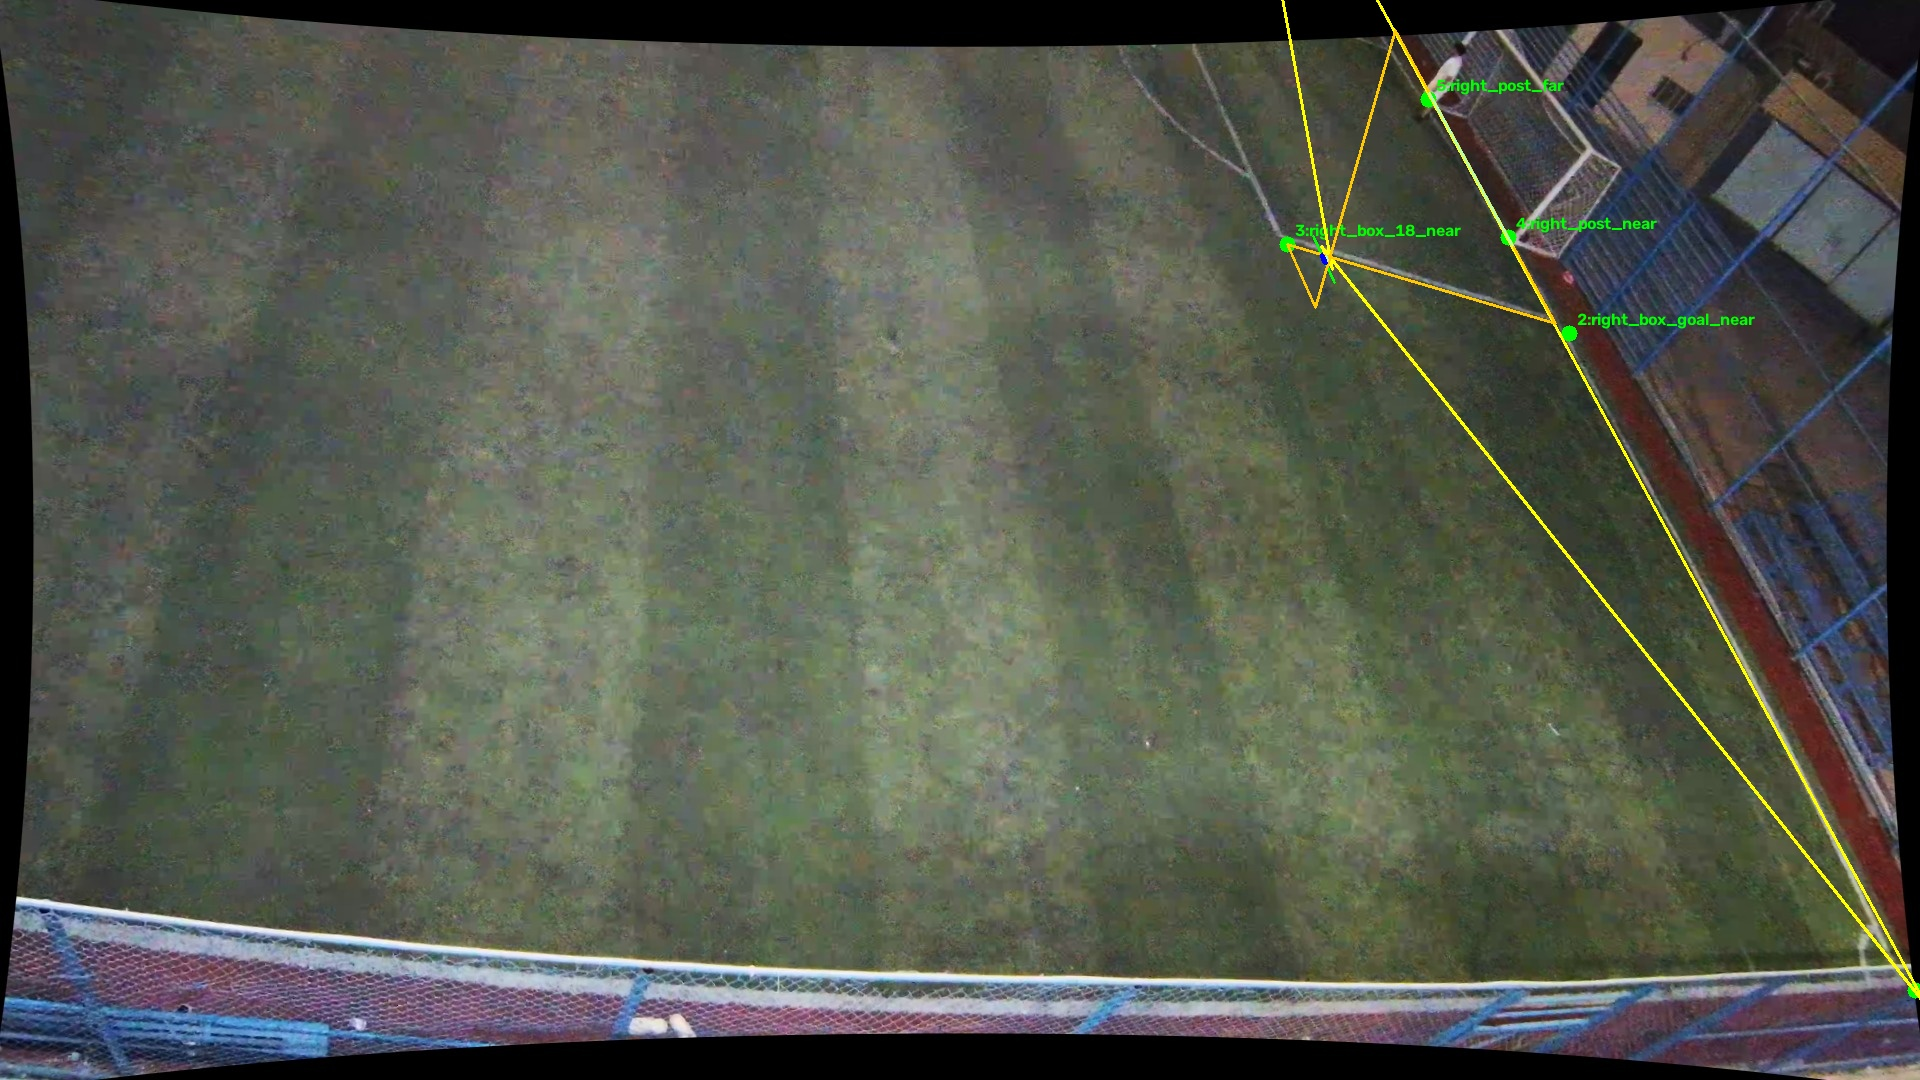
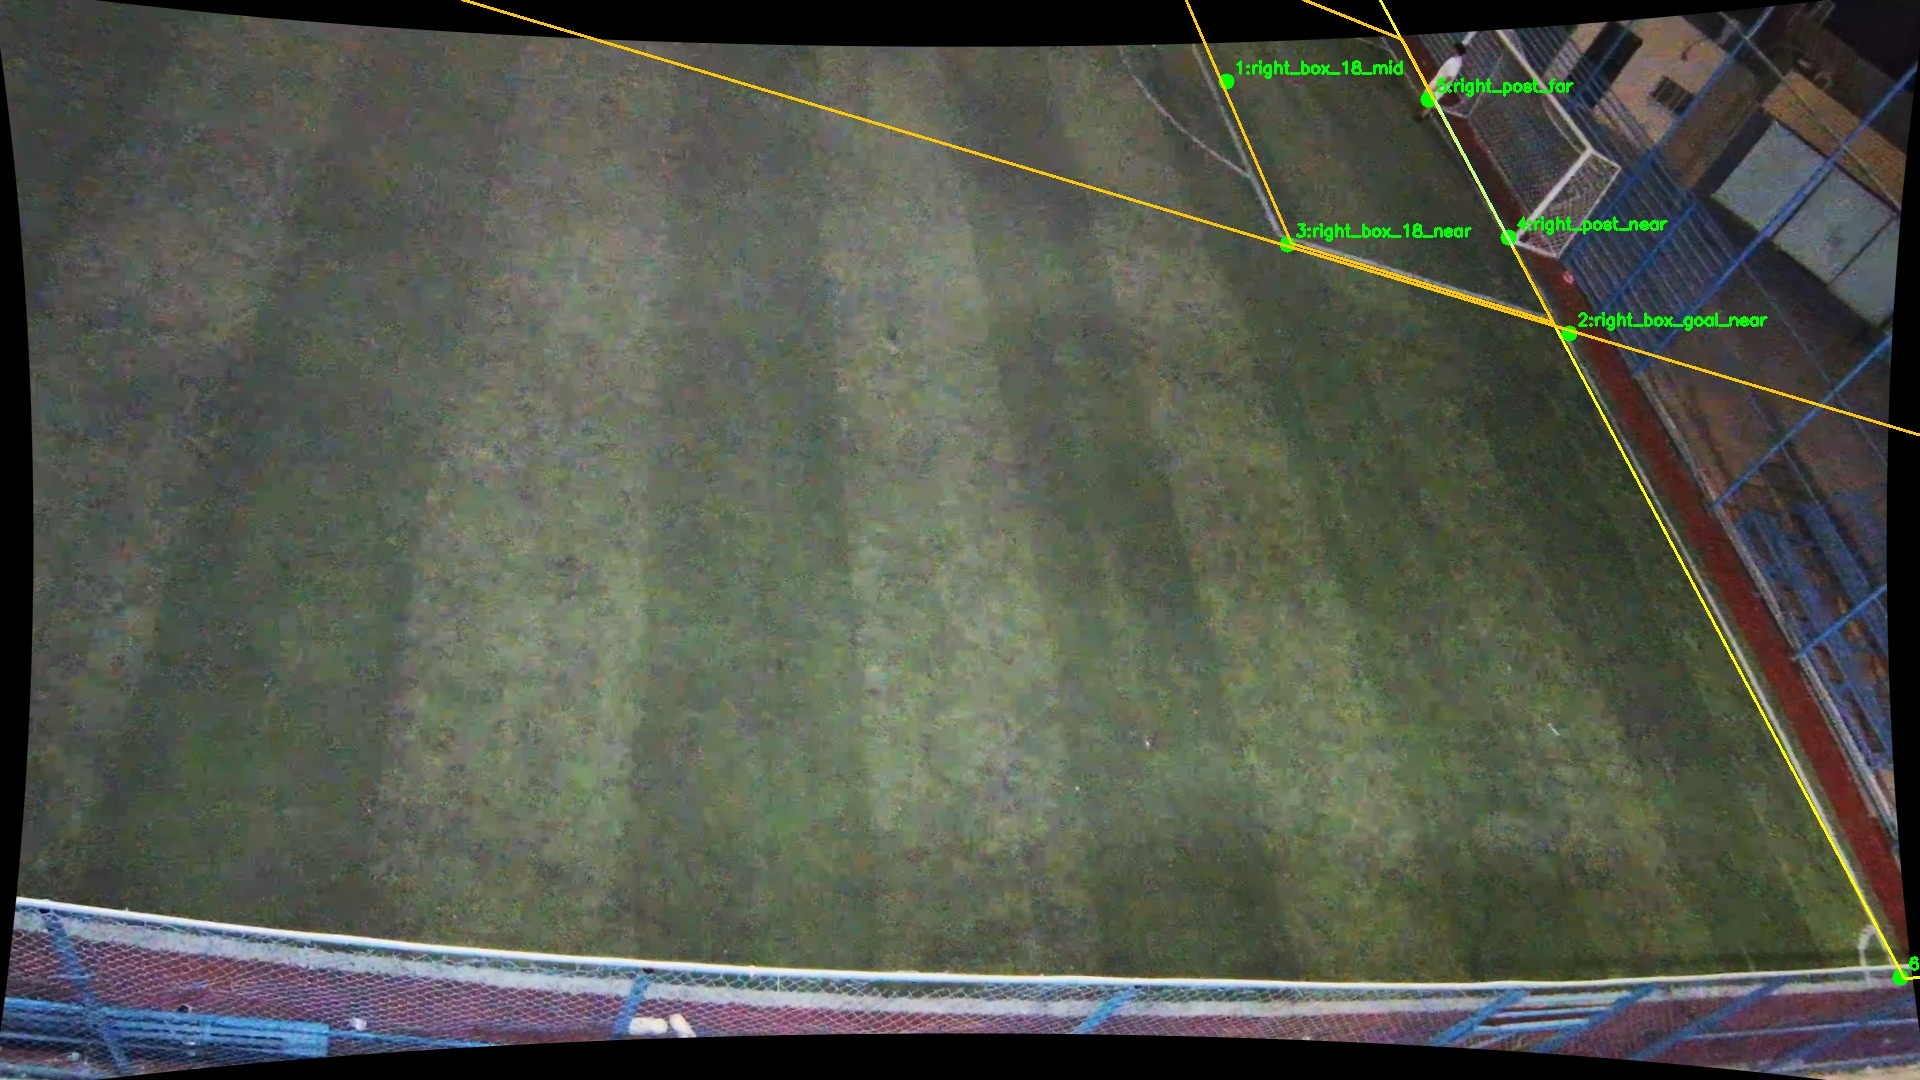
landmarks added
Add Pitch 1 box-front centre marks (right_box_18_mid), preserve H_player on save, and click P8 right_box_18_mid in the landmark dashboard.

diff --git a/scripts/gold_set/match3_landmarks.py b/scripts/gold_set/match3_landmarks.py
@@ -20,6 +20,15 @@ STILL_DIR = DASH / "stills"
 STILL_RAW_DIR = DASH / "stills_raw"
 CALIB_DIR = ROOT / "reports/eval_match3/match3_pitch_calib"
 FISH_TAGS = ROOT / "reports/eval_match3/fisheye_dashboard/tags.json"
+CALIB_PRESERVE_KEYS = (
+    "H_player",
+    "player_landmark_names",
+    "player_image_points",
+    "player_h_note",
+    "player_roundtrip_max_m",
+    "hull_image_points",
+    "hull_note",
+)
 MATCH3_RAW = ROOT / "data/raw/Match 3"
 # Camera id = filename P-code. Never remap by FOV (P1-006.mp4 is P1, not P9).
 RAW_FILE = load_match_raw(MATCH3_RAW)
@@ -112,14 +121,14 @@ SWAP_GROUPS = [
     ]),
     ("South box", [
         "left_box_goal_near", "left_box_goal_far",
-        "left_box_18_near", "left_box_18_far",
+        "left_box_18_near", "left_box_18_mid", "left_box_18_far",
     ]),
     ("South goal", [
         "left_post_near", "left_post_far",
     ]),
     ("North box", [
         "right_box_goal_near", "right_box_goal_far",
-        "right_box_18_near", "right_box_18_far",
+        "right_box_18_near", "right_box_18_mid", "right_box_18_far",
     ]),
     ("North goal", [
         "right_post_near", "right_post_far",
@@ -447,6 +456,14 @@ def save_clicks(cam: str, order_name: str, image_points: list, landmark_names=No
         payload["undistort"] = fish
         payload["undistort_fingerprint"] = undistort_fingerprint(fish)
     out = CALIB_DIR / f"{cam}_manual.json"
+    if out.is_file():
+        try:
+            prev = json.loads(out.read_text(encoding="utf-8"))
+        except json.JSONDecodeError:
+            prev = {}
+        for key in CALIB_PRESERVE_KEYS:
+            if key in prev:
+                payload[key] = prev[key]
     out.write_text(json.dumps(payload, indent=2), encoding="utf-8")
     write_manifest()
     return {

diff --git a/scripts/gold_set/pitch1.py b/scripts/gold_set/pitch1.py
@@ -81,6 +81,9 @@ def pitch1_landmarks(rec: dict | None = None) -> dict:
         "left_box_18_far": _pt(
             "South Right Box Corner", (-hx + pd, south["box_r"]),
             f"Outer south-right box. {pd} m from goal line."),
+        "left_box_18_mid": _pt(
+            "South Box Front Centre", (-hx + pd, 0.5 * (south["box_l"] + south["box_r"])),
+            f"Front of south box × goal centre. {pd} m from goal line."),
         "left_post_near": _pt(
             "South Left Goal Post", (-hx, south["post_l"]),
             f"South left post. Goal {gw} m, {m['south']['left_corner_to_post_m']} m from Corner 2."),
@@ -99,6 +102,9 @@ def pitch1_landmarks(rec: dict | None = None) -> dict:
         "right_box_18_far": _pt(
             "North Right Box Corner", (hx - pd, north["box_r"]),
             f"Outer north-right box. {pd} m from goal line."),
+        "right_box_18_mid": _pt(
+            "North Box Front Centre", (hx - pd, 0.5 * (north["box_l"] + north["box_r"])),
+            f"Front of north box × goal centre. {pd} m from goal line."),
         "right_post_near": _pt(
             "North Left Goal Post", (hx, north["post_l"]),
             f"North left post. Goal {gw} m, {m['north']['left_corner_to_post_m']} m from Corner 4."),

diff --git a/scripts/gold_set/test_pitch1.py b/scripts/gold_set/test_pitch1.py
@@ -14,6 +14,7 @@ def main() -> int:
     want = {
         "left_box_18_near": (-21.0, 3.6),
         "right_box_18_far": (21.0, -5.415),
+        "right_box_18_mid": (21.0, -0.94),
         "left_post_near": (-26.95, 1.45),
         "right_post_far": (26.95, -3.265),
         "circle_far": (0.0, -3.5),

diff --git a/docs/product/PITCH1_DIMENSIONS.md b/docs/product/PITCH1_DIMENSIONS.md
@@ -37,12 +37,14 @@ Diagram corners: Corner 2 = south-left, Corner 1 = south-right (P1), Corner 4 = 
 | `left_box_goal_near` | South Left Box Goal-Line Corner | -26.95 | 3.60 | 5.95 m box, left of south goal. |
 | `left_box_goal_far` | South Right Box Goal-Line Corner | -26.95 | -5.35 | 5.95 m box, right of south goal. |
 | `left_box_18_near` | South Left Box Corner | -21.00 | 3.60 | Outer south-left box. |
+| `left_box_18_mid` | South Box Front Centre | -21.00 | -0.94 | Front of south box × goal centre. |
 | `left_box_18_far` | South Right Box Corner | -21.00 | -5.35 | Outer south-right box. |
 | `left_post_near` | South Left Goal Post | -26.95 | 1.45 | 15.97 m from Corner 2. |
 | `left_post_far` | South Right Goal Post | -26.95 | -3.20 | 14.22 m from Corner 1. |
 | `right_box_goal_near` | North Left Box Goal-Line Corner | 26.95 | 3.54 | 5.95 m box, left of north goal. |
 | `right_box_goal_far` | North Right Box Goal-Line Corner | 26.95 | -5.42 | 5.95 m box, right of north goal. |
 | `right_box_18_near` | North Left Box Corner | 21.00 | 3.54 | Outer north-left box. |
+| `right_box_18_mid` | North Box Front Centre | 21.00 | -0.94 | Front of north box × goal centre. |
 | `right_box_18_far` | North Right Box Corner | 21.00 | -5.42 | Outer north-right box. |
 | `right_post_near` | North Left Goal Post | 26.95 | 1.39 | 16.02 m from Corner 4. |
 | `right_post_far` | North Right Goal Post | 26.95 | -3.27 | 14.14 m from Corner 3. |
